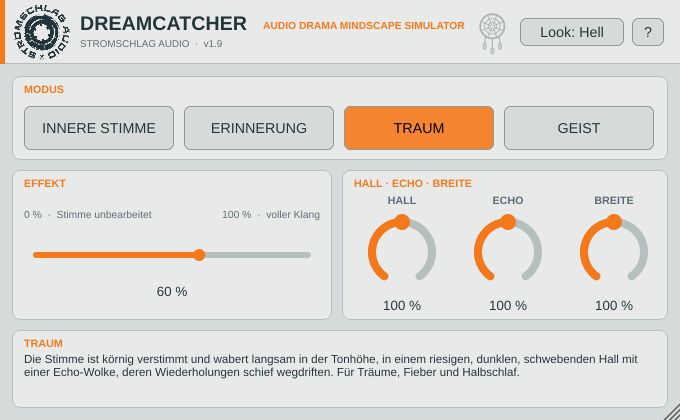
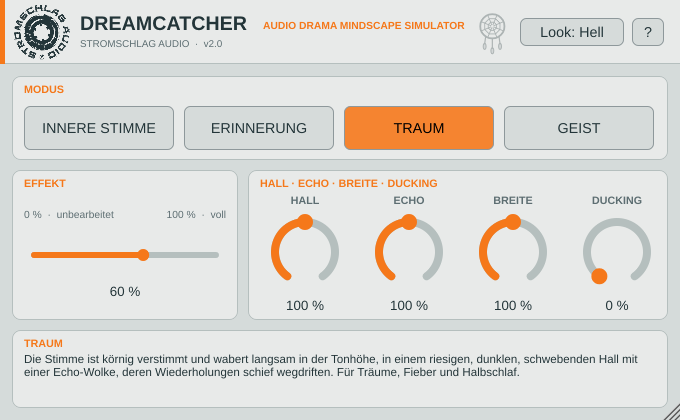
v2.0: vierter Drehregler Ducking
- Die Originalstimme drueckt Echos, Echo-Wolke, Hall und im Modus Geist Reverse-Hall/Reverse-Echo herunter,
  solange sie spricht (Attack 5 ms, Erholung ca. 0,25 s bis voll zurueck, bei 100 % bis -24 dB)
- Stimme, Stottern, Wabern und Breite bleiben unberuehrt; Grundeinstellung 0 % = aus, Klang wie 1.9
- Geist: Detektor auf der verzoegerten Stimme, damit der Schwell erst gedrueckt wird, wenn das Wort erklingt
- Oberflaeche mit vier Drehreglern, Hilfe, README, Info-Seite aktualisiert

Claude-Session: https://claude.ai/code/session_01N8U6GAcgjakis5mRQaEKjq

diff --git a/docs/index.html b/docs/index.html
@@ -61,7 +61,7 @@
   bis zum vollen Effekt, auch über die Zeit per Automation.</p>
 
   <a class="btn" id="dl" href="https://github.com/StromschlagProductions/Dreamcatcher-vst/releases/latest">⬇ Download (Windows, VST3)</a>
-  <div class="meta" id="ver">Aktuelle Version: <span id="vnum">1.9</span> · Installation: ZIP entpacken, den ganzen Ordner <code>Dreamcatcher.vst3</code> nach <code>C:\Program Files\Common Files\VST3</code> kopieren.</div>
+  <div class="meta" id="ver">Aktuelle Version: <span id="vnum">2.0</span> · Installation: ZIP entpacken, den ganzen Ordner <code>Dreamcatcher.vst3</code> nach <code>C:\Program Files\Common Files\VST3</code> kopieren.</div>
 
   <h2>Was es kann</h2>
   <ul>
@@ -70,7 +70,7 @@
     <li><strong>Traum:</strong> körnig verstimmt, die Tonhöhe wabert langsam, in einem riesigen, dunklen, schwebenden Hall mit einer Echo-Wolke, deren Wiederholungen schief wegdriften.</li>
     <li><strong>Geist:</strong> echter Reverse-Hall: Vor jedem Wort schwillt ein Geisterhall an und rückwärts gespielte Stücke saugen ins Wort hinein, dann kommt die Stimme, trocken und ohne Nachhall. Dafür meldet das Plugin in diesem Modus rund 0,6 s Latenz an die DAW, die sie ausgleicht. Am besten auf einer eigenen Spur oder Instanz.</li>
     <li><strong>Ein Fader von 0 bis 100 %:</strong> 0 % ist die Stimme unbearbeitet, 100 % der volle Klang des Modus. Per Automation lässt sich der Effekt einblenden oder zurückholen, etwa wenn eine alte Stimme aus einer Überblendung kommt.</li>
-    <li><strong>Hall, Echo und Breite zum Nachjustieren:</strong> drei Drehregler von 0 bis 200 %, 100 % ist der abgestimmte Klang des Modus. Im Modus Geist steuern die ersten beiden Reverse-Hall und Reverse-Echo. Breite reicht von mono bis breiter als die Lautsprecher und bleibt dabei monokompatibel.</li>
+    <li><strong>Hall, Echo, Breite und Ducking zum Nachjustieren:</strong> vier Drehregler von 0 bis 200 %, 100 % ist der abgestimmte Klang des Modus. Im Modus Geist steuern die ersten beiden Reverse-Hall und Reverse-Echo. Breite reicht von mono bis breiter als die Lautsprecher und bleibt dabei monokompatibel. Ducking (Grundeinstellung aus) lässt die Stimme Echos und Hall herunterdrücken, solange sie spricht.</li>
     <li><strong>Auch auf einem Bus:</strong> Stimme und Geräusche einer Traum- oder Erinnerungsszene bekommen gemeinsam dieselbe Behandlung und klingen wie aus einer Welt.</li>
     <li><strong>Fest abgestimmt:</strong> feste Modi, kein Ausgangsregler, keine eigenen Geräusche. Das Plugin verändert nur den Klang der Stimme; Latenz gibt es nur im Modus Geist.</li>
     <li><strong>Vergrößerbare Oberfläche</strong> von 50 % bis 300 %, hell und dunkel, mit Hilfe im Plugin.</li>

diff --git a/Source/DreamcatcherDSP.h b/Source/DreamcatcherDSP.h
@@ -92,6 +92,12 @@ static const Room kRoom[kNumModes] = {
     { 0.00, 0.65, 0.40, 0.35, 0.55 } }; // Geist: kein Vorwaerts-Hall, nur Reverse (die Stimme bleibt trocken)
 constexpr double kFlutterAmount = 0.52;   // Airwindows-Flutter: Tiefe des Bandleierns
 constexpr double kVibeDrift = 0.62;       // Airwindows-GalacticVibe: Geschwindigkeit des Waberns
+// Ducking: Die Stimme druckt die Effektanteile (Echos, Echo-Wolke, Hall, Reverse) herunter, die Stimme selbst und die Breite bleiben
+constexpr double kDuckAttackSeconds = 0.005;    // Einsetzen, sobald die Stimme kommt
+constexpr double kDuckReleaseSeconds = 0.090;   // Erholung, wenn die Stimme aufhoert (Effekt kehrt nach ca. 0,3 s voll zurueck)
+constexpr double kDuckLoLin = 0.00316;          // ab ca. -50 dBFS beginnt die Absenkung
+constexpr double kDuckHiLin = 0.03162;          // ab ca. -30 dBFS ist sie voll
+constexpr double kDuckFloor = 0.0631;           // bei 100 %: Effekt bis auf -24 dB abgesenkt
 constexpr double kSmoothSeconds = 0.060;    // Zeit, in der Moduswechsel ueberblendet werden
 
 // ======================================================================================================
@@ -787,6 +793,8 @@ public:
         sr = sampleRate;
         smooth = 1.0 - std::exp (-1.0 / (kSmoothSeconds * sr));
         fader = 1.0 - std::exp (-1.0 / (0.020 * sr));
+        duckAtk = 1.0 - std::exp (-1.0 / (kDuckAttackSeconds * sr));
+        duckRel = 1.0 - std::exp (-1.0 / (kDuckReleaseSeconds * sr));
         ens.prepare (sr); glitch.prepare (sr); nasty.prepare (sr);
         flutter.prepare (sr, kFlutterAmount); vibe.prepare (sr, kVibeDrift);
         int n = 1; while ((double) n < 3.4 * sr) n <<= 1;
@@ -815,7 +823,7 @@ public:
         for (auto* r : { &dlL, &dlR, &dryL, &dryR }) r->clear();
         std::fill (revBuf.begin(), revBuf.end(), 0.0); revPos = 0; revPhase = 0; revLpL = revLpR = 0.0;
         ghostRunning = false;
-        std::fill (sideBuf, sideBuf + 64, 0.0); sidePos = 0;
+        std::fill (sideBuf, sideBuf + 64, 0.0); sidePos = 0; duckEnv = 0.0;
         for (int m = 0; m < kNumModes; ++m) { room[m].reset(); roomRunning[m] = false; }
     }
     void setMode (int m) { mode = std::max (0, std::min (kNumModes - 1, m)); }
@@ -824,10 +832,11 @@ public:
 
     // dream: 0..1 (0 = unbearbeitete Stimme, 1 = voller Klang)
     // hall, echo: 0..2 (1 = so, wie der Modus abgestimmt ist)
-    void process (float* left, float* right, int n, double dream, double hall = 1.0, double echo = 1.0, double width = 1.0)
+    // duck: 0..1 (0 = aus)
+    void process (float* left, float* right, int n, double dream, double hall = 1.0, double echo = 1.0, double width = 1.0, double duck = 0.0)
     {
         const Voicing& v = kVoicing[mode];
-        if (! started) { amount = dream; hallK = hall; echoK = echo; widthK = width; started = true; }
+        if (! started) { amount = dream; hallK = hall; echoK = echo; widthK = width; duckK = duck; started = true; }
         const double ghostTarget = mode == kGhost ? 1.0 : 0.0;
         for (int i = 0; i < n; ++i)
         {
@@ -846,6 +855,7 @@ public:
             hallK += (hall - hallK) * fader;
             echoK += (echo - echoK) * fader;
             widthK += (width - widthK) * fader;
+            duckK += (duck - duckK) * fader;
             ghostAmt += (ghostTarget - ghostAmt) * smooth;
 
             // Echo-Zeiten gehoeren zum Modus: Echos erst ausblenden, dann Zeiten wechseln (kein Pitch-Rutschen)
@@ -919,11 +929,32 @@ public:
             else { echoLpL += echoCoef * (0.0 - echoLpL); echoLpR += echoCoef * (0.0 - echoLpR); }
             ++echoPos;
 
+            // 3a. Ducking-Detektor: Pegel der Originalstimme (im Modus Geist der verzoegerten, also wenn das Wort erklingt)
+            const double drl = dryL.tick (rawL), drr = dryR.tick (rawR);
+            double duckGain = 1.0;
+            {
+                const double det = (1.0 - ghostAmt) * std::max (std::fabs (rawL), std::fabs (rawR))
+                                 + ghostAmt * std::max (std::fabs (drl), std::fabs (drr));
+                duckEnv += (det - duckEnv) * (det > duckEnv ? duckAtk : duckRel);
+                if (duckK > 0.0005)
+                {
+                    double x = (duckEnv - kDuckLoLin) / (kDuckHiLin - kDuckLoLin);
+                    x = x < 0.0 ? 0.0 : (x > 1.0 ? 1.0 : x);
+                    x = x * x * (3.0 - 2.0 * x);
+                    duckGain = 1.0 - duckK * x * (1.0 - kDuckFloor);
+                }
+            }
+
             // 3. Breite und Echo-Wolke
             if (cur.wideSoar > 0.0005) sweetWide (l, r, cur.wideSoar, cur.wideBlend);
-            ens.process (l, r, std::min (1.0, cur.ensLevel * echoK));
-            l += echoLpL * echoLevel;
-            r += echoLpR * echoLevel;
+            {
+                const double preL = l, preR = r;
+                ens.process (l, r, std::min (1.0, cur.ensLevel * echoK));
+                l = preL + (l - preL) * duckGain;
+                r = preR + (r - preR) * duckGain;
+            }
+            l += echoLpL * echoLevel * duckGain;
+            r += echoLpR * echoLevel * duckGain;
 
             // 4. Klangfarbe
             l = lp[0].tick (hp[0].tick (l)) * cur.trim;
@@ -932,7 +963,6 @@ public:
             // 5. Geist: Reverse-Hall. Die Stimme wird um die Schwell-Laenge verzoegert, der Schwell liegt davor.
             double outDryL = rawL, outDryR = rawR;
             const double dgl = dlL.tick (l), dgr = dlR.tick (r);        // verzoegerte Stimme (laeuft immer mit)
-            const double drl = dryL.tick (rawL), drr = dryR.tick (rawR);
             if (ghostTarget > 0.0 && ! ghostRunning) { swell.reset(); std::fill (revBuf.begin(), revBuf.end(), 0.0); revLpL = revLpR = 0.0; ghostRunning = true; }
             if (ghostRunning)
             {
@@ -953,8 +983,8 @@ public:
                 ++revPos; if (++revPhase >= revLen) revPhase = 0;
                 const double re = kGhostRevEcho * echoK;
                 const Voicing& gv = kVoicing[kGhost];
-                const double gL = dgl * gv.ghostDry + wl * gv.ghostWet * hallK + revLpL * re;
-                const double gR = dgr * gv.ghostDry + wr * gv.ghostWet * hallK + revLpR * re;
+                const double gL = dgl * gv.ghostDry + (wl * gv.ghostWet * hallK + revLpL * re) * duckGain;
+                const double gR = dgr * gv.ghostDry + (wr * gv.ghostWet * hallK + revLpR * re) * duckGain;
                 l = l * (1.0 - ghostAmt) + gL * ghostAmt;
                 r = r * (1.0 - ghostAmt) + gR * ghostAmt;
                 outDryL = rawL * (1.0 - ghostAmt) + drl * ghostAmt;
@@ -979,7 +1009,7 @@ public:
                     hl += wl * roomLevel[m]; hr += wr * roomLevel[m];
                     if (target == 0.0 && roomLevel[m] < 0.0005) roomRunning[m] = false;
                 }
-                l += hl; r += hr;
+                l += hl * duckGain; r += hr * duckGain;
             }
 
             // 7. Breite (Mitte/Seite): 0 = mono, 1 = wie abgestimmt, 2 = doppelte Seite plus kurz verzoegerte Seite
@@ -1066,7 +1096,7 @@ private:
     int revMask = 0, revPos = 0, revPhase = 0, revLen = 64;
     double revCoef = 0.3, revLpL = 0.0, revLpR = 0.0;
     // Regler Hall / Echo (geglaettet)
-    double hallK = 1.0, echoK = 1.0, widthK = 1.0;
+    double hallK = 1.0, echoK = 1.0, widthK = 1.0, duckK = 0.0, duckEnv = 0.0, duckAtk = 0.01, duckRel = 0.0001;
     double sideBuf[64] {}, sideDelay = 20.0;
     int sidePos = 0;
 };

diff --git a/Source/PluginEditor.cpp b/Source/PluginEditor.cpp
@@ -57,7 +57,7 @@ static juce::AttributedString buildHelp (juce::Colour text, juce::Colour accent,
               juce::Font (juce::FontOptions (17.0f, juce::Font::bold)), accent);
 
     body ("Dreamcatcher ist ein Insert-Effekt für Stimmen, die nicht im Raum der Szene sprechen: innere Stimme, Erinnerung und Traum. "
-          "Der Klang jedes Modus ist fest abgestimmt. Bedient wird es mit dem Modus, dem Effekt-Fader und drei Drehreglern, mit denen du Hall, Echo und Stereobreite des Modus anpasst.");
+          "Der Klang jedes Modus ist fest abgestimmt. Bedient wird es mit dem Modus, dem Effekt-Fader und vier Drehreglern, mit denen du Hall, Echo, Stereobreite und Ducking des Modus anpasst.");
 
     head ("MODUS");
     body ("Innere Stimme: Die Stimme rückt ins Innere des Kopfes. Schmal und nah, ein winziger, enger Raum, ein Hauch Echo, Höhen weicher, Tiefen weg.");
@@ -82,6 +82,14 @@ static juce::AttributedString buildHelp (juce::Colour text, juce::Colour accent,
           "Die unbearbeitete Stimme (Effekt-Fader auf 0 %) bleibt davon unberührt.");
     note ("Der Regler ist monokompatibel: Er verändert nur das Seitensignal. In Mono klingt es bei 0 %, 100 % und 200 % exakt gleich, "
           "man hört dort nur die Breite nicht.");
+
+    head ("DUCKING (Drehregler, 0–100 %)");
+    body ("Ducking drückt die Effektanteile herunter, solange die Originalstimme spricht, wie das interne Ducking eines Hall- oder Delay-Plugins: "
+          "Echos, Echo-Wolke, Hall und im Modus Geist der Reverse-Schwell und das Reverse-Echo werden leiser, sobald die Stimme einsetzt, "
+          "und kehren nach etwa einer Viertelsekunde zurück, wenn sie aufhört. So kannst du Hall und Echo höher drehen, ohne dass die Stimme untergeht.");
+    body ("0 % schaltet das Ducking ab, das ist die Grundeinstellung. 100 % senkt die Effekte bei voller Stimme um etwa 24 dB ab. "
+          "Die Stimme selbst, ihr Stottern und Wabern sowie die Breite bleiben unberührt. Im Modus Geist reagiert der Detektor auf die verzögerte Stimme, "
+          "der Schwell wird also erst gedrückt, wenn das Wort wirklich erklingt.");
 
     head ("EFFEKT (Fader, 0–100 %)");
     body ("0 % = die Stimme unbearbeitet, 100 % = der volle Klang des gewählten Modus. Dazwischen blendet der Fader fließend über. "
@@ -141,6 +149,10 @@ DreamcatcherEditor::DreamcatcherEditor (DreamcatcherProcessor& p) : AudioProcess
     setupKnob (hallKnob, "hall");
     setupKnob (echoKnob, "echo");
     setupKnob (widthKnob, "width");
+    setupKnob (duckKnob, "duck");
+    duckKnob.slider.setDoubleClickReturnValue (true, 0.0);
+    duckKnob.label.setText (u8 ("DUCKING"), juce::dontSendNotification);
+    duckKnob.slider.setTooltip (u8 ("Ducking: Die Stimme drückt Echo, Hall und Reverse herunter, solange sie spricht. 0 % = aus, 100 % = Effekte bis auf −24 dB abgesenkt. Doppelklick: 0 %"));
     widthKnob.label.setText (u8 ("BREITE"), juce::dontSendNotification);
     widthKnob.slider.setTooltip (u8 ("Stereobreite: 0 % = mono, 100 % = wie der Modus abgestimmt ist, 200 % = breiter als die Lautsprecher. Doppelklick: 100 %"));
 
@@ -251,7 +263,7 @@ void DreamcatcherEditor::applyTheme()
     look.setColour (juce::PopupMenu::highlightedBackgroundColourId, theme.accent);
     look.setColour (juce::PopupMenu::highlightedTextColourId, juce::Colours::black);
     look.setColour (juce::Label::textColourId, theme.text);
-    for (auto* k : { &hallKnob, &echoKnob, &widthKnob }) k->label.setColour (juce::Label::textColourId, theme.dim);
+    for (auto* k : { &hallKnob, &echoKnob, &widthKnob, &duckKnob }) k->label.setColour (juce::Label::textColourId, theme.dim);
     look.setColour (juce::TextButton::buttonColourId, theme.dark ? theme.panel : theme.bg);
     look.setColour (juce::TextButton::buttonOnColourId, theme.accent);
     look.setColour (juce::TextButton::textColourOffId, theme.text);
@@ -362,13 +374,13 @@ void DreamcatcherEditor::paint (juce::Graphics& g)
     // Karte Modus
     card (12.0f, 76.0f, (float) W - 24.0f, 84.0f, "MODUS");
     // Karte Effekt-Fader
-    card (12.0f, 170.0f, 320.0f, 150.0f, "EFFEKT");
+    card (12.0f, 170.0f, 226.0f, 150.0f, "EFFEKT");
     g.setColour (theme.dim);
     g.setFont (juce::FontOptions (11.5f));
-    g.drawText (u8 ("0 %  ·  Stimme unbearbeitet"), 24, 206, 160, 16, juce::Justification::centredLeft);
-    g.drawText (u8 ("100 %  ·  voller Klang"), 320 - 130, 206, 130, 16, juce::Justification::centredRight);
+    g.drawText (u8 ("0 %  ·  unbearbeitet"), 24, 206, 100, 16, juce::Justification::centredLeft);
+    g.drawText (u8 ("100 %  ·  voll"), 238 - 12 - 90, 206, 90, 16, juce::Justification::centredRight);
     // Karte Hall / Echo
-    card (342.0f, 170.0f, (float) W - 354.0f, 150.0f, m == dch::kGhost ? u8 ("REVERSE & BREITE") : u8 ("HALL · ECHO · BREITE"));
+    card (248.0f, 170.0f, (float) W - 260.0f, 150.0f, m == dch::kGhost ? u8 ("REVERSE · BREITE · DUCKING") : u8 ("HALL · ECHO · BREITE · DUCKING"));
     // Karte Beschreibung
     card (12.0f, 330.0f, (float) W - 24.0f, 78.0f, modeShort (m));
     g.setColour (theme.text);
@@ -398,14 +410,14 @@ void DreamcatcherEditor::resized()
     for (int i = 0; i < 4; ++i)
         modeButtons[i].setBounds (bx + i * (bw + 10), 106, bw, 44);
 
-    fader.setBounds (24, 228, 296, 72);
+    fader.setBounds (22, 228, 206, 72);
     {
-        Knob* ks[3] = { &hallKnob, &echoKnob, &widthKnob };
-        for (int i = 0; i < 3; ++i)
+        Knob* ks[4] = { &hallKnob, &echoKnob, &widthKnob, &duckKnob };
+        for (int i = 0; i < 4; ++i)
         {
-            const int x = 350 + i * 106;
-            ks[i]->label.setBounds (x, 192, 104, 16);
-            ks[i]->slider.setBounds (x + 2, 208, 100, 106);
+            const int x = 254 + i * 104;
+            ks[i]->label.setBounds (x, 192, 102, 16);
+            ks[i]->slider.setBounds (x + 2, 208, 98, 106);
         }
     }
 

diff --git a/Source/PluginProcessor.cpp b/Source/PluginProcessor.cpp
@@ -22,6 +22,8 @@ juce::AudioProcessorValueTreeState::ParameterLayout DreamcatcherProcessor::creat
     layout.add (std::make_unique<AudioParameterFloat> (ParameterID { "echo", 1 }, "Echo", NormalisableRange<float> (0.0f, 2.0f), 1.0f, percent));
     // Breite: 0 % = mono, 100 % = wie abgestimmt, 200 % = breiter als die Lautsprecher
     layout.add (std::make_unique<AudioParameterFloat> (ParameterID { "width", 1 }, "Breite", NormalisableRange<float> (0.0f, 2.0f), 1.0f, percent));
+    // Ducking: wie stark die Stimme die Effekte (Echo, Hall, Reverse) herunterdrueckt; 0 % = aus (Standard)
+    layout.add (std::make_unique<AudioParameterFloat> (ParameterID { "duck", 1 }, "Ducking", NormalisableRange<float> (0.0f, 1.0f), 0.0f, percent));
     return layout;
 }
 
@@ -36,6 +38,7 @@ DreamcatcherProcessor::DreamcatcherProcessor()
     pHall = apvts.getRawParameterValue ("hall");
     pEcho = apvts.getRawParameterValue ("echo");
     pWidth = apvts.getRawParameterValue ("width");
+    pDuck = apvts.getRawParameterValue ("duck");
 }
 
 void DreamcatcherProcessor::prepareToPlay (double sampleRate, int)
@@ -71,7 +74,7 @@ void DreamcatcherProcessor::processBlock (juce::AudioBuffer<float>& buffer, juce
     engine.setMode (juce::roundToInt (pMode->load()));
     float* l = buffer.getWritePointer (0);
     float* r = numCh > 1 ? buffer.getWritePointer (1) : nullptr;
-    engine.process (l, r, numSamples, (double) pDream->load(), (double) pHall->load(), (double) pEcho->load(), (double) pWidth->load());
+    engine.process (l, r, numSamples, (double) pDream->load(), (double) pHall->load(), (double) pEcho->load(), (double) pWidth->load(), (double) pDuck->load());
 
     if (engine.latencySamples() != reportedLatency.load())
     {

diff --git a/Source/PluginEditor.h b/Source/PluginEditor.h
@@ -79,7 +79,7 @@ private:
     };
     void setupKnob (Knob&, const juce::String& paramId);
     void updateKnobLabels();
-    Knob hallKnob, echoKnob, widthKnob;
+    Knob hallKnob, echoKnob, widthKnob, duckKnob;
 
     juce::TextButton themeButton, helpButton;
     HelpPanel helpScroll;

diff --git a/Source/PluginProcessor.h b/Source/PluginProcessor.h
@@ -45,6 +45,7 @@ private:
     std::atomic<float>* pHall = nullptr;
     std::atomic<float>* pEcho = nullptr;
     std::atomic<float>* pWidth = nullptr;
+    std::atomic<float>* pDuck = nullptr;
 
     JUCE_DECLARE_NON_COPYABLE_WITH_LEAK_DETECTOR (DreamcatcherProcessor)
 };

diff --git a/README.md b/README.md
@@ -7,7 +7,7 @@
 
 VST3-Insert-Effekt für Hörspiel-Produktion. Er lässt eine Stimme klingen, als käme sie nicht aus dem Raum der Szene,
 sondern von innen: als **innere Stimme**, als **Erinnerung / Rückblende**, im **Traum** oder als **Geist** mit echtem Reverse-Hall. Ein Modus-Schalter, ein
-Fader und drei Drehregler für Hall, Echo und Breite, fertig.
+Fader und vier Drehregler für Hall, Echo, Breite und Ducking, fertig.
 
 **⬇ Download (Windows · VST3 · Stereo):** https://github.com/StromschlagProductions/Dreamcatcher-vst/releases/latest
 
@@ -18,7 +18,7 @@ merkt: Das ist jetzt nicht die Szene, das ist im Kopf. Bisher habe ich das jedes
 zusammengebaut. DREAMCATCHER legt diese Behandlung mit einem Klick auf die Spur und lässt sich über die Zeit
 ein- und ausblenden, zum Beispiel wenn eine alte Stimme aus einer Überblendung in der Rückblende auftaucht.
 
-Der Klang jedes Modus ist fest abgestimmt; mit Hall, Echo und Breite lässt er sich nachjustieren. Es gibt keinen Ausgangsregler, und es werden keine eigenen Geräusche
+Der Klang jedes Modus ist fest abgestimmt; mit Hall, Echo, Breite und Ducking lässt er sich nachjustieren. Es gibt keinen Ausgangsregler, und es werden keine eigenen Geräusche
 dazugemischt: Das Plugin verändert nur den Klang der Stimme.
 
 *DREAMCATCHER soll niemandem die Erfahrung abnehmen, solche Szenen selbst zu gestalten. Gerade am Anfang kann es viel Spaß machen und lehrreich sein, eine Traum- oder Erinnerungsstimme selbst aufzubauen und zu hören, wie Verstimmung, Echo, Filter und Automation ineinandergreifen. Ich bin dankbar, dass ich diesen Weg selbst gegangen bin, auch wenn er manchmal umständlich und mühselig war. Gerade dadurch weiß ich, was ich mir von einem Werkzeug wünsche, das all das in einem vereint. DREAMCATCHER soll das Gestalten nicht ersetzen, sondern die technische Umsetzung im Alltag einfacher machen.*
@@ -31,7 +31,7 @@ dazugemischt: Das Plugin verändert nur den Klang der Stimme.
 |---|---|
 | ![Erinnerung](docs/oberflaeche-dunkel.png) | ![Traum](docs/oberflaeche-hell.png) |
 
-Oben wählt man den Modus, darunter stehen der **Effekt-Fader** und die Drehregler **Hall**, **Echo** und **Breite**. Der **?**-Knopf öffnet die Hilfe, Look Dunkel/Hell und
+Oben wählt man den Modus, darunter stehen der **Effekt-Fader** und die Drehregler **Hall**, **Echo**, **Breite** und **Ducking**. Der **?**-Knopf öffnet die Hilfe, Look Dunkel/Hell und
 die Fenstergröße (50–300 %) werden mit dem Projekt gespeichert. Zu jedem Regler gibt es einen Tooltip.
 
 ## Modi und Regler (beide automatisierbar)
@@ -40,6 +40,7 @@ die Fenstergröße (50–300 %) werden mit dem Projekt gespeichert. Zu jedem Reg
 |---|---|
 | **Modus** | **Innere Stimme:** Die Stimme rückt ins Innere des Kopfes: schmal, nah, ein winziger, enger Raum und ein Hauch Echo, Höhen weicher, Tiefen weg. **Erinnerung:** Die Stimme stottert, sinkt ab, klingt dünn und dumpf in einem kleinen, alten Zimmer, leicht wie von einer leiernden Aufnahme; nach einem Pre-Delay schwappen Ping-Pong-Echos von links nach rechts heran und schwellen an (wop, wop), für Rückblenden. **Traum:** körnig verstimmt, die Tonhöhe wabert langsam, in einem riesigen, dunklen, schwebenden Hall mit einer Echo-Wolke, deren Wiederholungen schief wegdriften. **Geist:** echter Reverse-Hall, vor jedem Wort schwillt ein Geisterhall an und rückwärts gespielte Stücke saugen ins Wort hinein, dann kommt die Stimme, trocken und ohne Nachhall (meldet rund 0,6 s Latenz). Beim Wechsel blendet das Plugin in etwa einer zehntel Sekunde über. |
 | **Effekt** | 0 % = die Stimme unbearbeitet, 100 % = der volle Klang des Modus, dazwischen fließend (Standard: 100 %). Doppelklick setzt auf 100 % zurück. |
+| **Ducking** | Drehregler 0–100 %, Grundeinstellung 0 % (aus): Die Originalstimme drückt die Effektanteile (Echos, Echo-Wolke, Hall; im Modus Geist Reverse-Hall und Reverse-Echo) herunter, solange sie spricht, und sie kehren nach etwa einer Viertelsekunde zurück, wenn die Stimme aufhört. 100 % senkt die Effekte bei voller Stimme um etwa 24 dB ab. Stimme, Stottern, Wabern und Breite bleiben unberührt. Im Modus Geist reagiert der Detektor auf die verzögerte Stimme. So kannst du Hall und Echo höher drehen, ohne dass die Stimme untergeht. |
 | **Breite** | Drehregler 0–200 %: 0 % = mono, 100 % = so breit, wie der Modus abgestimmt ist, 200 % = deutlich breiter; über 100 % wird das Seitensignal zusätzlich minimal verzögert (Prinzip von Airwindows Wider), dann wirkt es breiter als die Lautsprecher. Monokompatibel: Der Regler verändert nur das Seitensignal, in Mono klingt es bei jeder Einstellung exakt gleich. |
 | **Hall** / **Echo** | Drehregler 0–200 %: 100 % = so, wie der Modus abgestimmt ist, 0 % = aus, 200 % = doppelt so viel. Im Modus Geist heißen sie **Reverse-Hall** und **Reverse-Echo**: so wählst du nur den rückwärts anschwellenden Hall, nur die rückwärts gespielten Echos oder beides. Doppelklick setzt auf 100 % zurück. |
 
@@ -81,6 +82,7 @@ Stimme und der Traum. Einen extra Ein-/Ausschalter gibt es nicht, 0 % ist aus.
 Die Versionsnummer steht in der Datei `VERSION`, im Plugin-Kopf und im Namen der Release. Sie wird bei jeder
 Änderung hochgezählt.
 
+- **2.0** – Vierter Drehregler **Ducking** (0–100 %, Grundeinstellung aus): Die Stimme drückt Echos, Hall und Reverse herunter, solange sie spricht; Stimme und Breite bleiben unberührt.
 - **1.9** – Hilfe und README korrigiert: Der Breite-Regler ist monokompatibel (in Mono bei jeder Einstellung exakt gleich).
 - **1.8** – Dritter Drehregler **Breite** (Stereobreite 0–200 %, über 100 % breiter als die Lautsprecher nach dem Prinzip von Airwindows Wider).
 - **1.7** – Erinnerung mit stärkerem Bandleiern; Traum mit stärkerem Wabern, breiter und mit größerem, stärker schwebendem Hall. Pegelausgleich jetzt nach gehörrichtiger Lautheit (LU) an einem stimmähnlichen Signal gemessen.
